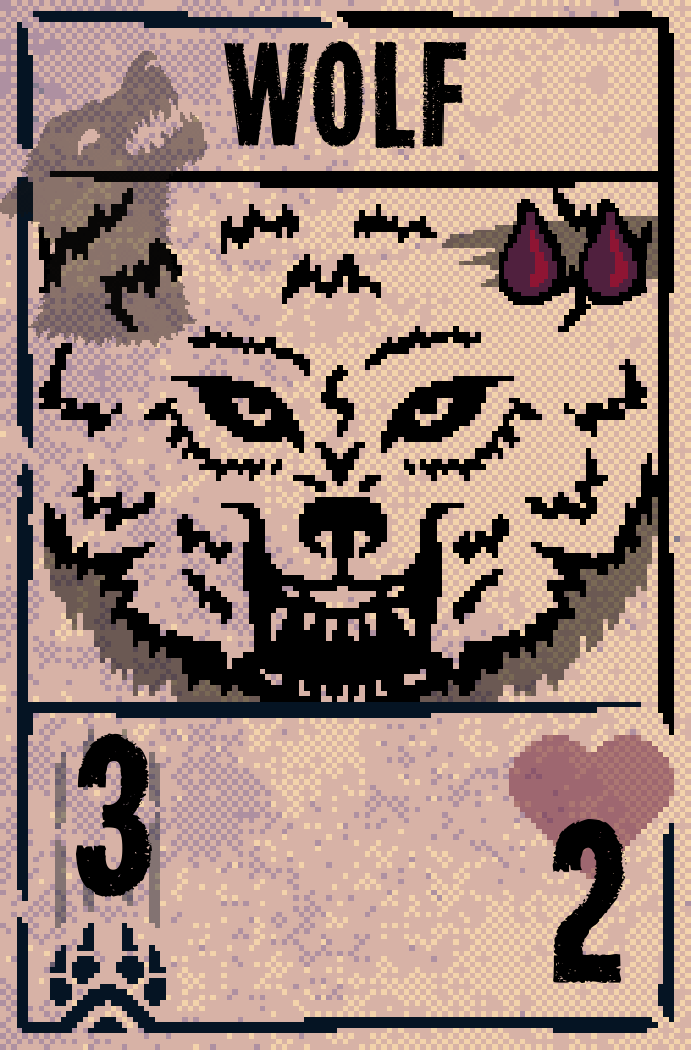
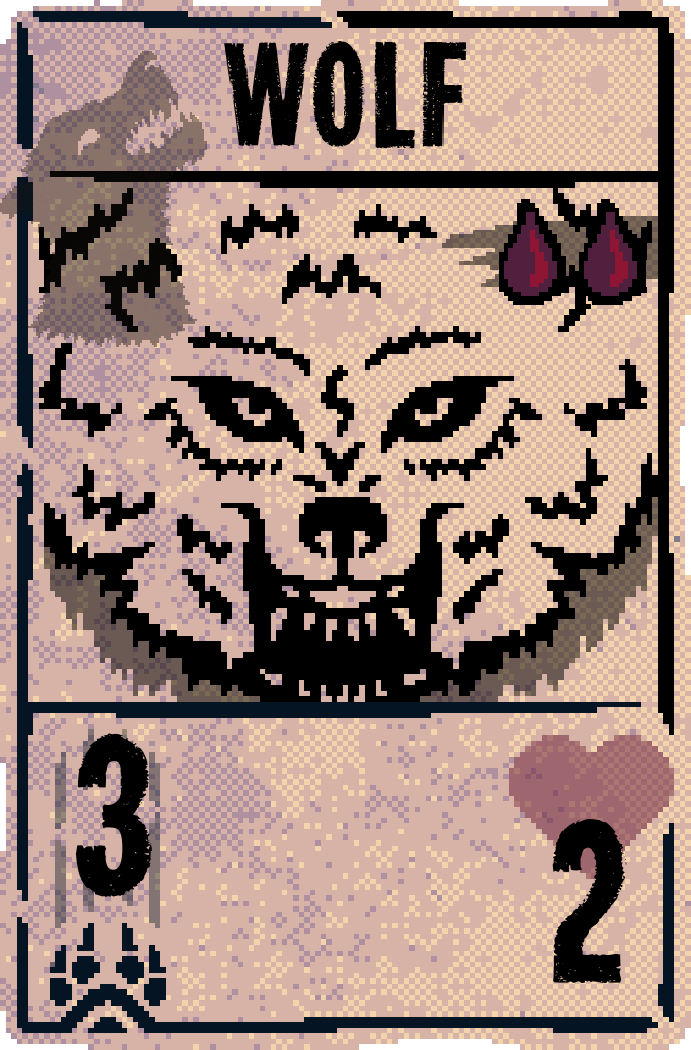
6th commit: V1
Classes left to write:
Scale (hopefully last)

Functions:
-Give player a deck
-Build cards
-Draw card from pile
-Draw the board on screen using SFML
-Draw a card inside any slot using SFML
(still the same draw but better)

diff --git a/include/sources/cards.cpp b/include/sources/cards.cpp
@@ -1,18 +1,23 @@
 #include "../headers/cards.h"
+#include <iostream>
+
+#include "../headers/slot.h"
 
 Card::Card() = default; // pentru caz default in card_factoy
 
 // Constructor for cards that take blood
-Card::Card(std::string name_, const int hp_, int const damage_, const int cost_in_blood_, const Effect e_) : name{
-        std::move(name_)
-    }, hp{hp_}, damage{damage_}, cost_in_blood{cost_in_blood_}, cost_in_bones{0}, e{e_} { init_texture(); }
+Card::Card(const std::string &file_name, std::string name_, const int hp_, int const damage_, const int cost_in_blood_,
+           const Effect e_) : name
+                              {
+                                  std::move(name_)
+                              }, hp{hp_}, damage{damage_}, cost_in_blood{cost_in_blood_}, cost_in_bones{0},
+                              e{e_} { init_texture(file_name); }
 
 // Constructor for cards that take bones
-Card::Card(std::string name_, const int hp_, const int damage_, const int cost_in_bones_, const Effect e_,
-           [[maybe_unused]] bool bone) : name
+Card::Card(const std::string &file_name, std::string name_, const int hp_, const int damage_, const int cost_in_bones_, const Effect e_,[[maybe_unused]] bool bone) : name
                                          {std::move(name_)}, hp{hp_}, damage{damage_}, cost_in_blood{0},
                                          cost_in_bones{cost_in_bones_},
-                                         e{e_} { init_texture(); }
+                                         e{e_} { init_texture(file_name); }
 
 Card::~Card() = default;
 
@@ -46,15 +51,22 @@ std::ostream &operator<<(std::ostream &out, const Card &card)
     return out;
 }
 
-void Card::init_texture()
+void Card::init_texture(const std::string& file_name)
 {
-    if (!card_texture.loadFromFile("../include/pictures/card_empty.png")) //test texture
+
+    if (!card_texture.loadFromFile(file_name)) //test texture
     {
-        //some error handling;
+        //trebuie facut error handling;
     }
     card_sprite.setTexture(card_texture);
     card_sprite.setOrigin(static_cast<float>(card_texture.getSize().x) / 2,
                           static_cast<float>(card_texture.getSize().y) / 2);
+
+    const sf::Vector2u textureSize = card_texture.getSize();
+    const float scaleX = one_slot_width / static_cast<float>(textureSize.x);
+    const float scaleY = one_slot_height / static_cast<float>(textureSize.y);
+
+    card_sprite.setScale(scaleX, scaleY);
 }
 
 void Card::draw(sf::RenderWindow &window, const float &x, const float &y)
@@ -62,7 +74,3 @@ void Card::draw(sf::RenderWindow &window, const float &x, const float &y)
     card_sprite.setPosition(x, y);
     window.draw(card_sprite);
 }
-
-
-
-

diff --git a/include/sources/game.cpp b/include/sources/game.cpp
@@ -1,5 +1,4 @@
 #include "../headers/game.h"
-
 #include "../headers/cards_factory.h"
 
 Game::Game() : squirrel_pile(10, 1),
@@ -12,6 +11,7 @@ void Game::play_game()
 {
     //la inceputul turei unui jucator, acesta trebuie sa traga o carte, apoi poate sa joace oricate carti din deck.
     //Cand considera ca si-a terminat tura apasa pe clopotel.
+
     while (window.isOpen())
     {
         sf::Event event{};
@@ -21,14 +21,22 @@ void Game::play_game()
                 if (event.key.code == sf::Keyboard::Escape) { window.close(); }
         }
         window.clear();
+
         init_background();
-        Slot *slot = new Slot;
-        slot->textures_init();
-        board.get_offset(window, slot->get_slot_width(), slot->get_slot_height());
-        delete slot;
+        board.get_offset(window, one_slot_width, one_slot_height);
         board.draw(window);
-        Card card = card_factory(CardType::Squirrel); //carte de test
-        board.get_slot(0, 0).place_card(window, &card); // iau slotul incare vreau sa pun si pun o carte
+
+        Card c1 = card_factory(CardType::Adder);
+        Card c2 = card_factory(CardType::Squirrel);
+        Card c3 = card_factory(CardType::Stinkbug);
+        board.place_card(&c1,1,2);
+        board.place_card(&c2,0,2);
+        board.place_card(&c3,0,0);
+        for(int i=0;i<2;i++)
+            for(int j=0;j<4;j++)
+            if(!board.get_slot(i, j).is_empty())
+                board.get_slot(i, j).update(window);
+        //board.remove_card(1,2);
         window.display();
     }
 }
@@ -40,11 +48,11 @@ void Game::init_background()
     sf::Sprite background_sprite;
     background_sprite.setTexture(background);
 
-    sf::Vector2u window_size = window.getSize();
-    sf::Vector2u background_size = background.getSize();
+    const sf::Vector2u window_size = window.getSize();
+    const sf::Vector2u background_size = background.getSize();
 
-    auto scale_x = static_cast<float>(window_size.x) / static_cast<float>(background_size.x);
-    auto scale_y = static_cast<float>(window_size.y) / static_cast<float>(background_size.y);
+    const auto scale_x = static_cast<float>(window_size.x) / static_cast<float>(background_size.x);
+    const auto scale_y = static_cast<float>(window_size.y) / static_cast<float>(background_size.y);
 
     background_sprite.setScale(scale_x, scale_y);
     window.draw(background_sprite);

diff --git a/include/sources/slot.cpp b/include/sources/slot.cpp
@@ -7,13 +7,11 @@ bool Slot::is_empty() const
     return card == nullptr; // daca card e nullptr return true else return false,
 }
 
-void Slot::place_card(sf::RenderWindow &window, Card *new_card)
+void Slot::place_card(Card *new_card)
 {
-    if (card == nullptr)
+    if (card == nullptr) // daca slotul e gol
     {
-        // daca slotul e gol
         card = new_card;
-        card->draw(window, slot_sprite.getPosition().x, slot_sprite.getPosition().y);
     } else { std::cout << "Slot is already in use" << std::endl; }
 }
 
@@ -27,9 +25,7 @@ void Slot::textures_init()
         std::cout << "Error in loading picture slots\n";
         // maybe throw exception and stop launch of program??
     }
-    const sf::Vector2u size = slot_texture.getSize(); // dimenisunile texturii si incarca sprite-ul
-    one_slot_width = size.x;
-    one_slot_height = size.y;
+
     slot_sprite.setTexture(slot_texture);
     slot_sprite.setOrigin(static_cast<float>(one_slot_width) / 2, static_cast<float>(one_slot_height) / 2);
 }
@@ -40,12 +36,10 @@ void Slot::draw(sf::RenderWindow &window, const float &x, const float &y)
     window.draw(slot_sprite);
 }
 
-unsigned int Slot::get_slot_width() const { return slot_texture.getSize().x; }
-unsigned int Slot::get_slot_height() const { return slot_texture.getSize().y; }
 
-sf::Sprite *Slot::get_sprite()
+void Slot::update(sf::RenderWindow &window) const
 {
-    return &slot_sprite;
+    card->draw(window, slot_sprite.getPosition().x, slot_sprite.getPosition().y);
 }
 
 

diff --git a/include/headers/cards.h b/include/headers/cards.h
@@ -19,14 +19,14 @@ private:
     Effect e = none;
     sf::Texture card_texture;
     sf::Sprite card_sprite;
-
+    // to do: add propery filename; use in constructor to get the texture and set the sprite in texture init;
 public:
     Card(); // pentru caz default in card_factoy
     //constructor for cards that take blood
-    Card(std::string name_, int hp_, int damage_, int cost_in_blood_, Effect e_);
+    Card(const std::string& file_name, std::string name_, int hp_, int damage_, int cost_in_blood_, Effect e_);
 
     //constructor for cards that take bones
-    Card(std::string name_, int hp_, int damage_, int cost_in_bones_, Effect e_, [[maybe_unused]] bool bone);
+    Card(const std::string& file_name, std::string name_, int hp_, int damage_, int cost_in_bones_, Effect e_, [[maybe_unused]] bool bone);
 
     //destructor
     ~Card();
@@ -40,10 +40,7 @@ public:
 
     friend std::ostream &operator <<(std::ostream &out, const Card &card);
 
-    void init_texture();
-
-    //cartea nu are draw card pentru ca se acutalizaeaza in slot.
-    sf::Texture get_texture();
+    void init_texture(const std::string& file_name);
 
     void draw(sf::RenderWindow &window, const float &, const float &);
 };

diff --git a/include/headers/cards_factory.h b/include/headers/cards_factory.h
@@ -7,17 +7,17 @@ inline Card card_factory(const CardType type)
     switch (type)
     {
         case CardType::Squirrel:
-            return {"Squirrel", 1, 0, 0, none};
+            return {"../include/pictures/squirrel.png","Squirrel", 1, 0, 0, none};
         case CardType::Adder:
-            return {"Adder", 1, 1, 2, poison};
+            return {"../include/pictures/adder.png","Adder", 1, 1, 2, poison};
         case CardType::Wolf:
-            return {"Wolf", 2, 3, 2, none};
+            return {"../include/pictures/wolf.png","Wolf", 2, 3, 2, none};
         case CardType::Stinkbug:
-            return {"Stinkbug", 2, 1, 2, stinkbug, true};
+            return {"../include/pictures/stinkbug_talking.png","Stinkbug", 2, 1, 2, stinkbug, true};
         case CardType::RiverSnapper:
-            return {"River Snapper", 6, 1, 2, none};
+            return {"../include/pictures/river_snapper.png","River Snapper", 6, 1, 2, none};
         case CardType::Bullfrog:
-            return {"Bullfrog", 2, 1, 1, air_defence};
+            return {"../include/pictures/bullfrog.png","Bullfrog", 2, 1, 1, air_defence};
         default:
             return {};
     }

diff --git a/include/sources/board.cpp b/include/sources/board.cpp
@@ -9,21 +9,21 @@ void Board::draw(sf::RenderWindow &window)
         for (int j = 0; j < 4; j++)
         {
             board[i][j].textures_init();
-            auto x = offset_x + static_cast<float>(j * board[0][0].get_slot_width());
-            auto y = offset_y + static_cast<float>(i * board[0][0].get_slot_height());
+            auto x = offset_x + static_cast<float>(j * one_slot_width);
+            auto y = offset_y + static_cast<float>(i * one_slot_height);
             board[i][j].draw(window, x, y);
         }
     }
 }
 
-void Board::place_card(sf::RenderWindow &window, Card *card, const int l, const int c)
+void Board::place_card(Card *card, const int l, const int c)
 {
     if (l < 0 || l > 2 || c < 0 || c > 4)
     {
         std::cout << "Slot is out of bounds\n";
         return;
     }
-    if (board[l][c].is_empty() == true) { board[l][c].place_card(window, card); } else
+    if (board[l][c].is_empty() == true) { board[l][c].place_card(card); } else
     {
         std::cout << "Slot is already occupied\n";
     }

diff --git a/include/headers/slot.h b/include/headers/slot.h
@@ -3,20 +3,21 @@
 #include "cards.h"
 #include <SFML/Graphics.hpp>
 
+#define one_slot_width 154
+#define one_slot_height 226
+
 class Slot
 {
     Card *card; // daca exista cartea are o valoare, daca nu e nullptr
     sf::Texture slot_texture;
     sf::Sprite slot_sprite;
-    unsigned int one_slot_width = 0;
-    unsigned int one_slot_height = 0;
 
 public:
     Slot();
 
     [[nodiscard]] bool is_empty() const;
 
-    void place_card(sf::RenderWindow &window, Card *);
+    void place_card(Card *);
 
     void remove_card();
 
@@ -24,11 +25,7 @@ public:
 
     void draw(sf::RenderWindow &window, const float &, const float &);
 
-    unsigned int get_slot_width() const;
-
-    unsigned int get_slot_height() const;
-
-    sf::Sprite *get_sprite();
+    void update(sf::RenderWindow &window) const;
 };
 
 #endif //SLOT_H

diff --git a/main.cpp b/main.cpp
@@ -1,5 +1,4 @@
 #include "include/headers/game.h"
-#include <SFML/Graphics.hpp>
 /*
 class Scale{
 private:
@@ -24,11 +23,11 @@ public:
 // to do: add textues for each card inside the card class, implement remove card function in slot.cpp
 int main() {
     Game game;
-    //test
-
-
-    //wolf emission.png has 155 width, 237 height
     // slot.png has 154 width, 226 height
+    // de scalat toate pozele cartilor la dimenisunile astea
+
+
+
     return 0;
 }
 

diff --git a/include/headers/board.h b/include/headers/board.h
@@ -16,7 +16,7 @@ public:
     Board();
 
     void draw(sf::RenderWindow &window); // to elimiate from board
-    void place_card(sf::RenderWindow &window, Card *, int, int);
+    void place_card(Card *, int, int);
 
     void remove_card(int, int);
 
